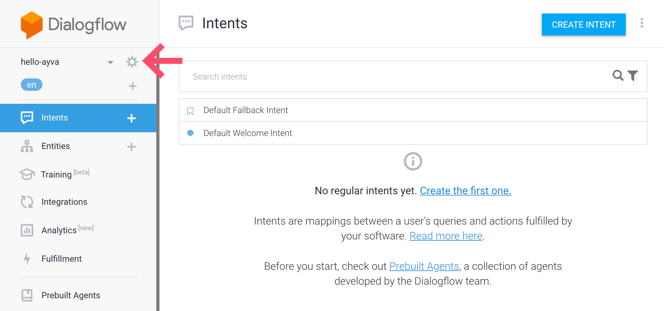
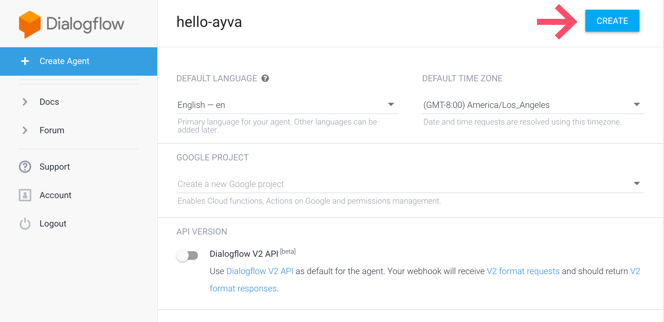
better ux

diff --git a/client/src/components/Tutorial/Tutorial.js b/client/src/components/Tutorial/Tutorial.js
@@ -7,6 +7,12 @@ import threeA from '../../img/threeA.png'
 import threeB from '../../img/threeB.png'
 import threeC from '../../img/threeC.png'
 import threeD from '../../img/threeD.png'
+import threeE from '../../img/threeE.png'
+
+import terminal from '../../img/terminal.png'
+import npm from '../../img/npm.png'
+import githubBlack from '../../img/github-black.png'
+
 
 class Tutorial extends Component {
     render() {
@@ -23,10 +29,22 @@ class Tutorial extends Component {
                         </div>
                         <div className='stepDescriptionBox'>
                             <br />
-                            <span><span className='code'>npm install -g ayva-cli</span></span>
+                            <span className='terminalDescription'>
+                                <img className='terminal' src={terminal} alt='terminal'/>
+                                <span className='code'>npm install -g ayva-cli</span>
+                            </span>
                             <br />
-                            <span>The Ayva CLI will allow you to create new voice assistant projects 
+                            <span>Use a command line tool to install the Ayva command line interface (CLI). This tool will allow you to create new voice assistant projects 
                             and deploy interaction models to any supported voice assistant platform.</span>
+                            <br />
+                            <div className='stepLinks'>
+                                <div className='npmBox'>
+                                    <a href='https://www.npmjs.com/package/bespoken-tools'><img className='npm' src={npm} alt='npm'/></a>
+                                </div>
+                                <div className='githubBox'>
+                                    <a href='https://github.com/bespoken/bst'><img className='githubBlack' src={githubBlack} alt='githubBlack'/></a>
+                                </div>
+                            </div>
                         </div>
                     </div>
                     <div className='stepBox'>
@@ -35,11 +53,23 @@ class Tutorial extends Component {
                         </div>
                         <div className='stepDescriptionBox'>
                             <br />
-                            <span><span className='code'>npm install -g bespoken-tools</span></span>
+                            <span className='terminalDescription'>
+                                <img className='terminal' src={terminal} alt='terminal'/>
+                                <span className='code'>npm install -g bespoken-tools</span>
+                            </span>
                             <br />
                             <span>The Ayva deploy command in our CLI utilizes Bespoken to create a local proxy url. 
                             This greatly increase the efficiecy of local development. Using a local proxy avoids the 
                             necessity to deploy your code on every update.</span>
+                            <br />
+                            <div className='stepLinks'>
+                                <div className='npmBox'>
+                                    <a href='https://www.npmjs.com/package/bespoken-tools'><img className='npm' src={npm} alt='npm'/></a>
+                                </div>
+                                <div className='githubBox'>
+                                    <a href='https://github.com/bespoken/bst'><img className='githubBlack' src={githubBlack} alt='githubBlack'/></a>
+                                </div>
+                            </div>
                         </div>
                     </div>
                     <div className='stepBox'>
@@ -50,8 +80,7 @@ class Tutorial extends Component {
                             <br />
                             <span>In order to create a new voice app on Google Assistant, we will first need to create a Dialogflow 
                             account to create a new skill.</span>
-                            <br />
-                            <a href='https://dialogflow.com/docs/getting-started/building-your-first-agent#create_an_agent'>Helpful tutorial from Dialogflow</a>
+                            <a href='https://dialogflow.com/docs/getting-started/building-your-first-agent#create_an_agent'>(Helpful tutorial from Dialogflow)</a>
                             <br />
                             <div className='threeImgBox'>
                                 <h3>a. Sign in to Dialogflow with Google</h3>
@@ -64,23 +93,32 @@ class Tutorial extends Component {
                             </div>
                             <br />
                             <div className='threeImgBox'>
-                                <h3>c. Go to Agent configuration to acquire developer access token.</h3>
+                                <h3>c. Enter 'hello-ayva' for the agent name and click 'Create'</h3>   
                                 <img className='threeImg' src={threeC} alt='threeC'/>
-                                <br />
+                            </div>
+                            <br />
+                            <div className='threeImgBox'>
+                                <h3>d. Go to agent configuration to acquire developer access token under the 'General' tab.</h3>
                                 <img className='threeImg' src={threeD} alt='threeC'/>
                                 <br />
-                                <span>Ayva currently uses <a href='https://dialogflow.com/docs/reference/agent/'>Dialogflow V1 API</a>. In order to utilize Ayva deploy, you will need 
+                                <img className='threeImg' src={threeE} alt='threeE'/>
+                            </div>
+                            <br />
+                            <span>Ayva currently uses <a href='https://dialogflow.com/docs/reference/agent/'>Dialogflow V1 API</a>. In order to utilize Ayva deploy, you will need 
                                 your Dialogflow Developer access token. Ayva will use this to
                                 import your voice application's interaction model to Dialogflow.</span>
-                            </div>
                         </div>
                     </div>
                     <div className='stepBox'>
                         <div className='stepTitleBox'>
-                            <span><span className='stepTitle'>Step 4. </span>Create a new Dialogflow agent</span>
+                            <span><span className='stepTitle'>Step 4. </span>Run ayva hello</span>
                         </div>
                         <div className='stepDescriptionBox'>
-                        
+                            <br />
+                            <span className='terminalDescription'>
+                                <img className='terminal' src={terminal} alt='terminal'/>
+                                <span className='code'>ayva hello</span>
+                            </span>
                         </div>
                     </div>
                 </div>

diff --git a/client/src/components/Tutorial/tutorial.css b/client/src/components/Tutorial/tutorial.css
@@ -38,6 +38,19 @@
     padding-bottom: 5vh;
 }
 
+.terminalDescription {
+    display: flex;
+    align-items: center;
+}
+
+.terminal {
+    flex: 1 1 0;
+    margin-right: 0.5vw;
+    align-self: center;
+    max-width: 25px;
+    height: auto;
+}
+
 .stepBox {
     display: flex;
     flex-direction: column;
@@ -60,6 +73,39 @@
     flex-direction: column;
     margin-bottom: 10vh;
     margin-left: 2vw;
+}
+
+.stepLinks {
+    display: flex;
+    justify-content: flex-start;
+    align-items: center;
+}
+
+.npmBox {
+    display:flex;
+    align-items: center;
+
+}
+
+.githubBox {
+    display:flex;
+    align-items: center;
+}
+
+.npm {
+    flex: 1 1 0;
+    margin-right: .5vw;
+    align-self: center;
+    max-width: 50px;
+    height: auto;
+}
+
+.githubBlack {
+    flex: 1 1 0;
+    margin-right: 1vw;
+    align-self: center;
+    max-width: 25px;
+    height: auto;
 }
 
 .threeImgBox {
